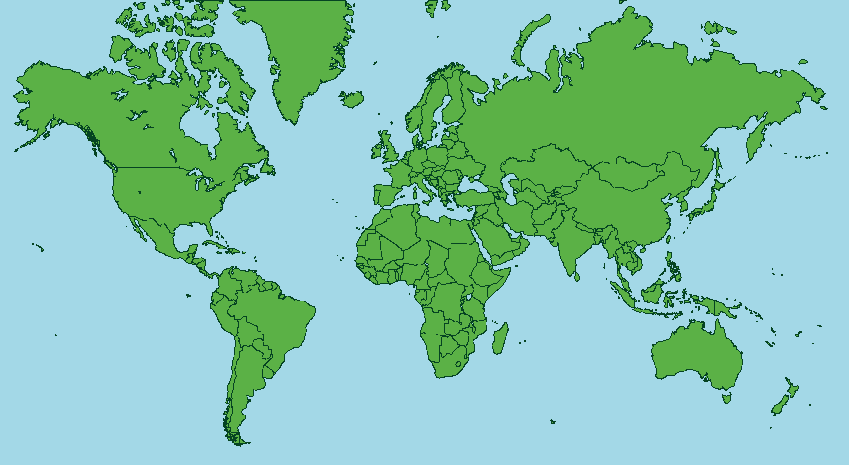
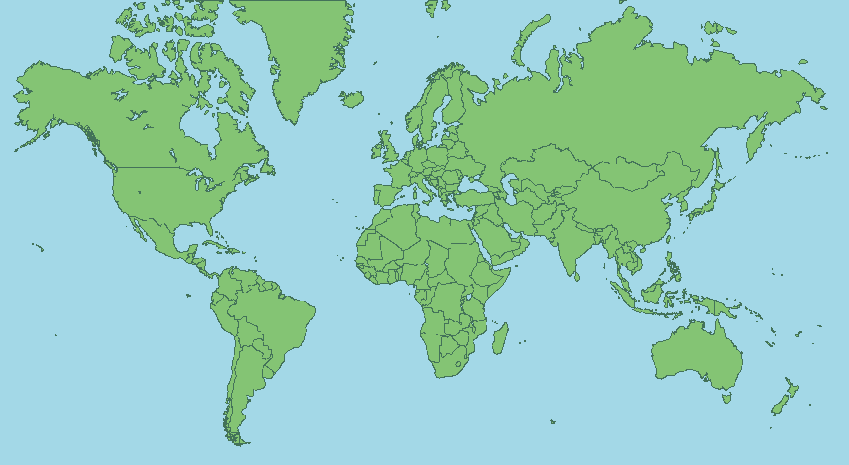
updated colours of map to be more acceptable with a trafficlight system. added real coordinates to the map - Ireland, India, Calfornia

diff --git a/src/test_game.py b/src/test_game.py
@@ -21,9 +21,18 @@ def load_test_game():
 
     project.locations.append(location_b)
 
+    culture_c = Culture('India', 0.35, 0.35)
+    location_c = Location('New Dehli', -11, culture_c, 30, 35,(570,264))
+    team_c = Team('', 0.7, 15, 5)
+    location_c.add_team(team_c)
+
+    project.locations.append(location_c)
+
+
     module = Module('Sample Module', 600)
     project.locations[0].teams[0].task = module.get_task('design')
     project.locations[1].teams[0].task = module.get_task('implementation')
+    project.locations[2].teams[0].task = module.get_task('unit_test')
 
     project.modules.append(module)
 

diff --git a/src/UI/game.py b/src/UI/game.py
@@ -77,9 +77,9 @@ class Game:
     def draw_sites(self):
         ''' Draws dots showing sites around the world map.
         '''        # TODO: Info to be retrieved from backend, currently dummy data.
-        for x in range (5):
+        for x in self.project_data.locations:
             pygame.draw.circle(self.screen, self.config["site_colour"],
-                    (x*10, x*10), 7)
+                    (x.coordinates[0], x.coordinates[1]), 7)
 
     def draw_detailed_site_info(self, font):
         ''' Draws detailed info about the currently selected site.

diff --git a/src/global_config.py b/src/global_config.py
@@ -14,7 +14,7 @@ config = {
         "menuY" : 460,
         "bottom_bar_height" : 20,
         # UI colours
-        "site_colour" : 0x44FFFF,
+        "site_colour" : 0x2C8718,
         "bar_colour" : 0x9b9b9b,
         "background_colour" : 0xdedede,
         # File paths
